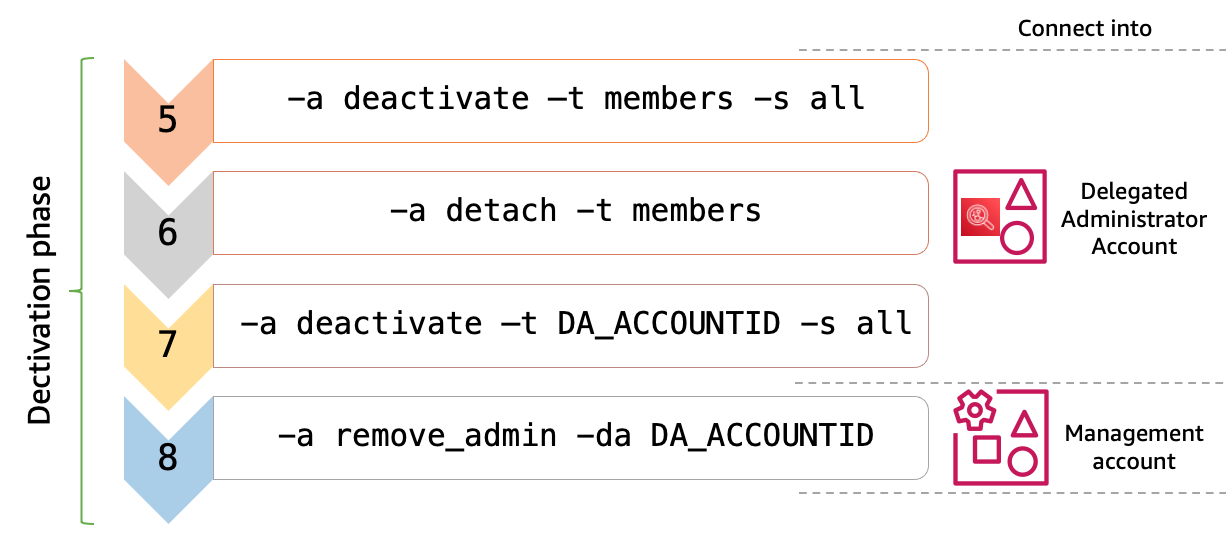
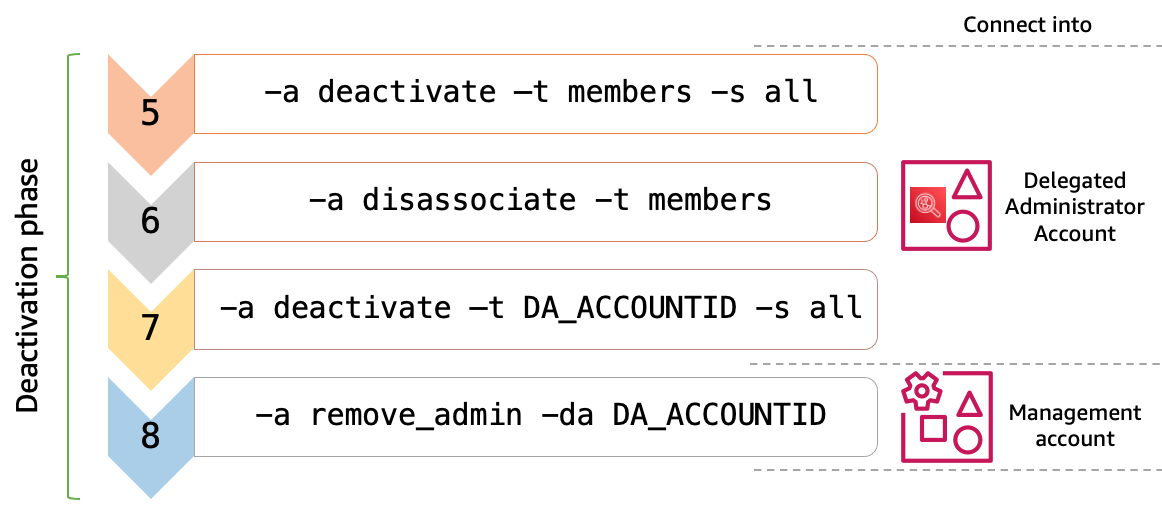
updates following comment from Inspector2 teams: changing attach into associate. Fixing the possible concurrent access. New images

diff --git a/README.md b/README.md
@@ -46,14 +46,14 @@ Attach the [AmazonInspector2FullAccess](https://docs.aws.amazon.com/inspector/la
 ### 2.4. Variables
 #### 2.4.1 Default variables
 Below are the default variables in the script :
-- `$default_auto_enable_conf`       : Configure the scanning type to be enable for new accounts that are attached to the DA. You must always set the value for both ec2 and ecr. By default in the script, the value is set : `auto_enable_conf="ec2=true,ecr=true"`
+- `$default_auto_enable_conf`       : Configure the scanning type to be enable for new accounts that are associated to the DA. You must always set the value for both ec2 and ecr. By default in the script, the value is set : `auto_enable_conf="ec2=true,ecr=true"`
 - `$default_rsstype`                : Inspector2 scanning type to be enable. The default value is set to `"EC2 ECR"`.
 
 #### 2.4.2 Variables to set in the parameters file 
 Below are the variables in the `param_inspector2.json` that you will need to update according to your Organization:
 - `inspector2_da.id`       : AWS Account id you want to designate as Delegated Admin for Amazon Inspector2
 - `scanning_type.selected` : Inspector2 scanning type to be enable. Possible values are "ECR" | "EC2" | "EC2 ECR" (use upper case)
-- `auto_enable.conf`       : Configure the scanning type to be enable for new accounts that are attached to the DA. You must always set the value for both ec2 and ecr, at an least with one of them being true. Example : `auto_enable.conf="ec2=true,ecr=false"`
+- `auto_enable.conf`       : Configure the scanning type to be enable for new accounts that are associated to the DA. You must always set the value for both ec2 and ecr, at an least with one of them being true. Example : `auto_enable.conf="ec2=true,ecr=false"`
 - `regions.enablement`     : The list of AWS regions where you want to enable/disable Amazon Inspector2. Example in the parameters file. If not specified in the file nor found as exported variable, then the script will use the current region.
 
 #### 2.4.3 Export the variables
@@ -69,7 +69,7 @@ At the end of the script execution, unset the variables exported by doing:
 The script runs locally using AWS CLI and works also on CloudShell. Maybe the easiest way to run it, by uploading the scriptsfor the customer. 
 If you have designated an account different than the Management Organization Account as "Delegated Administrator" for Amazon Inspector2, you will need to :
 1. run the script in the Management Organization Account : As per the security principle, only this account can designate another account as admin
-2. run the script (the same one) in the Delegated Administrator account to manage Amazon Inspector2 : enable/disable, configure auto-enable, attach/detach members...
+2. run the script (the same one) in the Delegated Administrator account to manage Amazon Inspector2 : enable/disable, configure auto-enable, associate/disassociate members...
 
 If you have designated the Management Organization account as the Delegated Admininistrator for Amazon Inspector2, then run all the steps of the script in only that account.
 
@@ -88,11 +88,11 @@ Use `-h`or `--help` to see the commands options.
      - A target account(s) is mandatory: `-t members | ACCOUNTID`. Either specified an ACCOUNTID `-t ACCOUNTID` on which scan type will be enabled, or use `-t members` to select all the accounts from AWS Organizations except the DA account on which to enable the scan type. 
      - The scan type is specified `-s ec2|ecr|all`. This is optional, when not specified, then both scans type EC2&ECR will be enabled
      - Example : ```./script.sh -a activate -t members [-s ecr] ```
- 4. `-a auto_enable [-e "ec2=true, ecr=true"]`: configure the automatic activation of Amazon Inspector2 to accounts newly attached to the DA based on the configuration set. 
-     - `-e "ec2=true, ecr=false"` : specified the scan type to enable on each newly attached account. This is optional, when not used, the script will read the value in the parameter file. If nothing is set in the parameters file, then the script will applied the default value of `$default_auto_enable_conf`
- 5. `-a attach -t ACCOUNTID|members`: attach the specified target account(s) to the DA account
- 6. `-a desactivate -t ACCOUNTID|members [-s all]`: deactivate a specified scan for Amazon Inspector2. In order to deactive Amazon Inspector2, all the scan types should be disabled. 
- 7. `-a detach -t ACCOUNTID|members`: Detach a target from the DA. 
+ 4. `-a auto_enable [-e "ec2=true, ecr=true"]`: configure the automatic activation of Amazon Inspector2 to accounts newly associated to the DA based on the configuration set. 
+     - `-e "ec2=true, ecr=false"` : specified the scan type to enable on each newly associated account. This is optional, when not used, the script will read the value in the parameter file. If nothing is set in the parameters file, then the script will applied the default value of `$default_auto_enable_conf`
+ 5. `-a associate -t ACCOUNTID|members`: associate the specified target account(s) to the DA account
+ 6. `-a deactivate -t ACCOUNTID|members [-s all]`: deactivate a specified scan for Amazon Inspector2. In order to deactive Amazon Inspector2, all the scan types should be disabled. 
+ 7. `-a disassociate -t ACCOUNTID|members`: Disassociate a target from the DA. 
  8. `-a remove_admin [-da ACCOUNTID]`: Remove an an account as DA for Amazon Inspector2. 
 
 
@@ -108,7 +108,7 @@ Use `-h`or `--help` to see the commands options.
 ## 4. Activation phase
 Amazon Inspector2 would be enabled in all accounts, regions with the scan type you configured in the variales. 
 
-![Activation phase using the script](images/inspector2_activation.png)
+![Activation phase using the script](Inspector2_activation.png)
 
 If your Delegated Admininistrator (DA) account is different than your management Organization account, then after step 1, log into your DA account. If not, continue the next steps in the same account.
 You will need to execute the steps 2, 3 and 4 in the DA account as shown in the table below.
@@ -118,23 +118,23 @@ Caution: **Wait around 5 minutes** after step 4 to check the status with `get_st
 | ------ | ------ | ------ | ------ |
 | 1   | Management Organization account | `-a delegate_admin -da DA_ACCOUNT_ID` | designate `DA_ACCOUNT_ID` as Inspector2 DA for AWS Organizations |
 | 2   | Delegated Administrator Account | `-a activate -t DA_ACCOUNT_ID -s all` | Activate Inspector2 on the DA account for selected scans: ec2 or ecr or `all` = ec2 & ecr|
-| 3   | Delegated Administrator Account | `-a auto_enable -e "ec2=true, ecr=false" ` | Configure auto-enablement of Inspector2 on the accounts attached to the DA |
-| 4   | Delegated Administrator Account | `-a attach -t members` | Attach the member accounts to the DA account |
+| 3   | Delegated Administrator Account | `-a auto_enable -e "ec2=true, ecr=false" ` | Configure auto-enablement of Inspector2 on the accounts associated to the DA |
+| 4   | Delegated Administrator Account | `-a associate -t members` | Associate the member accounts to the DA account |
 
 Wait a few minutes for the Amazon Inspector2 to be enable in all the accounts and regions configured.
 
-In the DA Account, execute the script with `get_status` to get the Inspector2 activation status of accounts attached to the DA account.
+In the DA Account, execute the script with `get_status` to get the Inspector2 activation status of accounts associated to the DA account.
 
 
 ## 5. Deactivation phase
 For Inspector2 deactivation, you will need to follow the steps below.
 
-![Deactivation phase using the script](images/inspector2_deactivation.png)
+![Deactivation phase using the script](Inspector2_Deactivation.png)
 
 | N°     | Run the script in | Parameters | Description | 
 | ------ | ------ | ------ | ------ |
 | 5   | Delegated Administrator Account | `-a deactivate -t members -s all` | Deactivate a type of scan ec2 or ecr. Or deactivate Inspector2 by removing  `all` = ec2 & ecr scans types from members accounts |
-| 6   | Delegated Administrator Account | `-a detach_members -t members` | Detach the memebers accounts from the DA account|
+| 6   | Delegated Administrator Account | `-a disassociate -t members` | Disassociate the memebers accounts from the DA account|
 | 7   | Delegated Administrator Account | `-a deactivate -t DA_ACCOUNT_ID -s all` | Deactivate Inspector2 on the DA account|
 | 8   | Management Organization account| `-a remove_admin -da DA_ACCOUNT_ID` | Remove DA account  |
 
